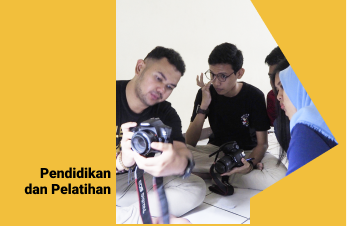
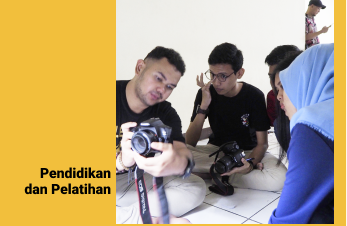
mengedit kegiatan card

Changed region(s): [[0.7205, 0.0, 0.9798, 0.9912]]

diff --git a/resources/views/user/homepage.blade.php b/resources/views/user/homepage.blade.php
@@ -323,19 +323,19 @@
                 </div>
                 <div class="row">
                   <div class="col-md-5">
-                    <p>Lorem ipsum dolor sit amet consectetur adipisicing elit. Sed quibusdam, laudantium voluptates autem nisi dolore aliquid aliquam excepturi velit tempore ipsum ullam laborum facere asperiores, iste ex eius dolorem suscipit.</p>
+                    <p>Memperkenalkan dasar-dasar fotografi dan untuk mengembangkan kreativitas bagi calon anggota dan anggota pada khususnya dan mahasiswa/i Universitas Pancasila.</p>
                   </div>
                   <div class="col-md-7">
                     <div id="carouselExampleSlidesOnly" class="carousel slide" data-bs-ride="carousel">
                       <div class="carousel-inner">
                         <div class="carousel-item active">
-                          <img src="{{asset('assets/img/diklat.png')}}" class="d-block w-100">
+                          <img src="{{asset('assets/img/k1_1.JPG')}}" class="d-block w-100">
                         </div>
                         <div class="carousel-item">
-                          <img src="{{asset('assets/img/pameran.png')}}" class="d-block w-100">
+                          <img src="{{asset('assets/img/k1_2.JPG')}}" class="d-block w-100">
                         </div>
                         <div class="carousel-item">
-                          <img src="{{asset('assets/img/hunting.png')}}" class="d-block w-100">
+                          <img src="{{asset('assets/img/k1_3.JPG')}}" class="d-block w-100">
                         </div>
                       </div>
                     </div>
@@ -366,19 +366,19 @@
                 </div>
                 <div class="row">
                   <div class="col-md-5">
-                    <p>Lorem ipsum dolor sit amet consectetur adipisicing elit. Sed quibusdam, laudantium voluptates autem nisi dolore aliquid aliquam excepturi velit tempore ipsum ullam laborum facere asperiores, iste ex eius dolorem suscipit. pameran  fotografi</p>
+                    <p>Sebuah acara yang memperkenalkan atau memajang hasil karya foto yang mempunyai makna untuk dinikmati serta berbagi pengalaman kepada pengunjung.</p>
                   </div>
                   <div class="col-md-7">
                     <div id="carouselExampleSlidesOnly" class="carousel slide" data-bs-ride="carousel">
                       <div class="carousel-inner">
                         <div class="carousel-item active">
-                          <img src="{{asset('assets/img/diklat.png')}}" class="d-block w-100">
+                          <img src="{{asset('assets/img/k2_1.JPG')}}" class="d-block w-100">
                         </div>
                         <div class="carousel-item">
-                          <img src="{{asset('assets/img/pameran.png')}}" class="d-block w-100">
+                          <img src="{{asset('assets/img/k2_2.JPG')}}" class="d-block w-100">
                         </div>
                         <div class="carousel-item">
-                          <img src="{{asset('assets/img/hunting.png')}}" class="d-block w-100">
+                          <img src="{{asset('assets/img/k2_3.JPG')}}" class="d-block w-100">
                         </div>
                       </div>
                     </div>
@@ -409,19 +409,19 @@
                 </div>
                 <div class="row">
                   <div class="col-md-5">
-                    <p>Lorem ipsum dolor sit amet consectetur adipisicing elit. Sed quibusdam, laudantium voluptates autem nisi dolore aliquid aliquam excepturi velit tempore ipsum ullam laborum facere asperiores, iste ex eius dolorem suscipit. hunting foto</p>
+                    <p>Kegiatan jalan-jalan atau liburan ke suatu tempat untuk memotret berbagai objek.</p>
                   </div>
                   <div class="col-md-7">
                     <div id="carouselExampleSlidesOnly" class="carousel slide" data-bs-ride="carousel">
                       <div class="carousel-inner">
                         <div class="carousel-item active">
-                          <img src="{{asset('assets/img/diklat.png')}}" class="d-block w-100">
+                          <img src="{{asset('assets/img/k3_1.JPG')}}" class="d-block w-100">
                         </div>
                         <div class="carousel-item">
-                          <img src="{{asset('assets/img/pameran.png')}}" class="d-block w-100">
+                          <img src="{{asset('assets/img/k3_2.JPG')}}" class="d-block w-100">
                         </div>
                         <div class="carousel-item">
-                          <img src="{{asset('assets/img/hunting.png')}}" class="d-block w-100">
+                          <img src="{{asset('assets/img/k3_3.JPG')}}" class="d-block w-100">
                         </div>
                       </div>
                     </div>
